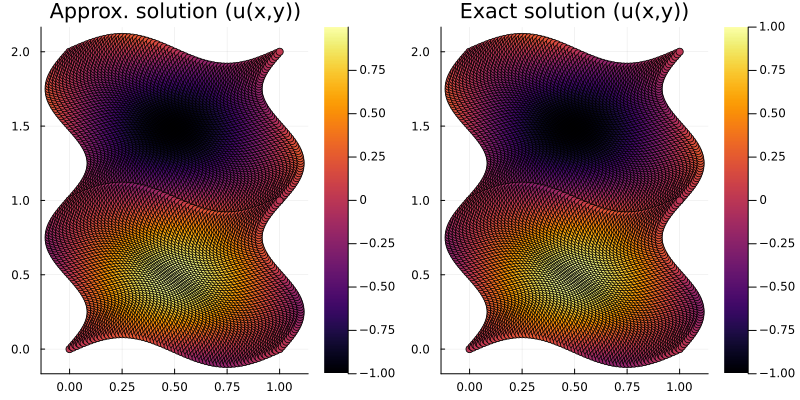
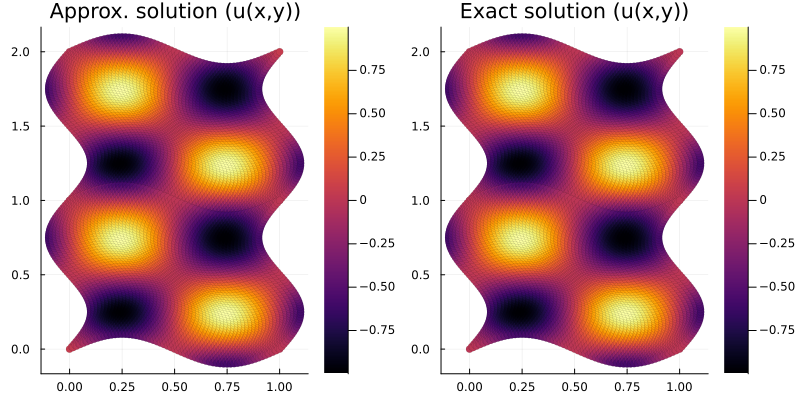
Make the images clearer and add few test till N=161

diff --git a/README.md b/README.md
@@ -189,19 +189,22 @@ julia> L²Error
 The code to solve the two-layer elasticity problem is given in `examples/LinearElasticity/2_layer_linear_elasticity.jl`. The problem contains two domains, each of which is transformed to the reference grid. At the interface between the two domains, continuity of displacements and the traction is enforced. The method is discussed in [Duru and Virta, 2014](https://doi.org/10.1016/j.jcp.2014.08.046).
 
 $$
-\sigma_1(\mathbf{u}_1) \cdot \mathbf{n} = \sigma_2(\mathbf{u}_2) \cdot \mathbf{n}, \quad \mathbf{u}_1 = \mathbf{u}_2
+\begin{align*}
+\sigma_1(\mathbf{u}_1) \cdot \mathbf{n} &= \sigma_2(\mathbf{u}_2) \cdot \mathbf{n},\\
+\mathbf{u}_1 &= \mathbf{u}_2
+\end{align*}
 $$
 
 In all the experiments, we assume the following exact solution for the numerical tests on both domains
 
 $$
 \begin{align*}
-	u(x,y,t) &= \sin(\pi x)\sin(\pi y)\sin(\pi t)\\
-	v(x,y,t) &= \sin(2\pi x)\sin(2\pi y)\sin(\pi t)\\		
+	u(x,y,t) &= \sin(2\pi x)\sin(2\pi y)\cos(2\pi t)\\
+	v(x,y,t) &= -\sin(2\pi x)\sin(2\pi y)\cos(2\pi t)\\		
 \end{align*}
 $$
 
-The material properties, i.e., the Young's modulus and the Poisson's ratio, are $E = 1.0$ units and $\nu = 0.33$, respectively. The density of the material $\rho = 1.0$ units. The right-hand side and the initial conditions are computed using the exact solution. The same material properties are considered on both layers. In addition, we apply homogeneous Neumann boundary conditions on all the boundaries other than the interface.
+The material properties, i.e., the Young's modulus and the Poisson's ratio, are $\mu = 1.0$ units and $\lambda = 2.0$, respectively. The density of the material $\rho = 1.0$ units. The right-hand side and the initial conditions are computed using the exact solution. The same material properties are considered on both layers. In addition, we apply homogeneous Neumann boundary conditions on all the boundaries other than the interface. We take $N = 21, 41, 81, 161$ grid points in the spatial axis, unless otherwise specified. We use the Crank Nicolson scheme to discretize the temporal axis, with $\Delta t = 10^{-3}$ unless otherwise specified. We solve the problem till the final time $T=0.5$.
 
 ## Examples:
 
@@ -232,19 +235,17 @@ The solution obtained from the code is
 
 ```julia
 julia> L²Error
-5-element Vector{Float64}:
- 0.0014048765373793973
- 0.0002489052338364618
- 7.220295847822627e-5
- 2.773681028865246e-5
- 1.2746113394244e-5
+4-element Vector{Float64}:
+ 0.0029292191489991137
+ 0.00015097078687655857
+ 7.816432852803662e-6
+ 2.7961746423513113e-6
 
 julia> rate
-4-element Vector{Float64}:
- 4.2682648457948105
- 4.301940698846879
- 4.287466939069201
- 4.264630264509913
+3-element Vector{Float64}:
+  4.278174814683486
+  4.271615240153228
+  1.4830558912540412
 ```
 
 We generally observe optimal rate of convergence for this problem.
@@ -282,18 +283,16 @@ The solution obtained from the code is
 ```julia
 julia> L²Error
 5-element Vector{Float64}:
- 0.0027907285183550058
- 0.0005527940423015698
- 0.00017091759284248921
- 6.854049976017636e-5
- 3.252490179608264e-5
+ 0.007558173340899469
+ 0.00045388123034475147
+ 2.5618346320238604e-5 
+ 3.0199888379049195e-6
 
 julia> rate
 4-element Vector{Float64}:
- 3.9931240221672377
- 4.080212430116334
- 4.094927744183956
- 4.0884841923321895
+ 4.057650872194422
+ 4.147065571813102
+ 3.0845622294783666
 ```
 
 Again, we observe optimal convergence rates for this problem. This shows that there seems to be no issue having the surface Jacobian on the traction term on the interface.
@@ -327,22 +326,92 @@ The following rate of convergence is observed with the current parameters in the
 
 ```julia
 julia> L²Error
+4-element Vector{Float64}:
+  0.016210862015016134
+  0.0012554598913067554
+  0.00012708168659424516
+  1.736858752050089e-5
+
+julia> rate
+3-element Vector{Float64}:
+  3.6906729643333986
+  3.304387891506614
+  2.8712038038632355
+```
+
+With $N=21,31,41,51,61$ we observe the following
+
+```julia
+julia> L²Error
 5-element Vector{Float64}:
- 0.005192096994131349
- 0.001075534324039911
- 0.0003477263472045686
- 0.0001499647187842862
- 7.856626145623064e-5
+ 0.016066707314881114
+ 0.0036017365712484144
+ 0.0012300006875771003
+ 0.0005560646265402666
+ 0.0003022495249636241
 
 julia> rate
 4-element Vector{Float64}:
- 3.8827510567289
- 3.925017090032561
- 3.7689449170540046
- 3.545700826435687
+ 3.687945330926127
+ 3.7346831260966966
+ 3.557734384058937
+ 3.343716536727846
 ```
 
-The convergence rates seem to be optimal but it appears to reduce to 3.5. Not sure why this happens, maybe due to the choice in the penalty term for the interface conditions?
+~~The convergence rates seem to be optimal but it appears to reduce to 3.5. Not sure why this happens, maybe due to the choice in the penalty term for the interface conditions?~~ This problem seems to be much well-behaved where the interface is a Gaussian that has a smooth tail: The boundary of the domain is parametrized by the following curves
+- Layer 1: 
+  - Left: $c_0(r) = [0, r+1]$
+  - Bottom: $c_1(q) = \left[q, 1 + 0.2 \left(e^{-20(q-0.5)^2}\right) \right]$ (interface)
+  - Right: $c_2(r) = [1, r+1]$
+  - Top: $c_3(q) = [q, 2]$
+- Layer 2:
+  - Left: $c_0(r) = [0, r]$
+  - Bottom: $c_1(q) = [q, 0]$
+  - Right: $c_2(r) = [1, r]$
+  - Top: $c_3(q) = \left[q, 1 + 0.2 \left(e^{-20(q-0.5)^2}\right) \right]$ (interface)
+
+Computational domain | Convergence Rates |
+--- | --- |
+![](./Images/2-layer/Eg3/domain-2.png) | ![](./Images/2-layer/Eg3/rate-2.png) |
+
+![](./Images/2-layer/Eg3/horizontal-disp-2.png) | ![](./Images/2-layer/Eg3/vertical-disp-2.png) | 
+--- | --- | 
+
+Here we take $\Delta t = 5\times 10^{-4}$.
+
+```julia
+# Δt = 5e-4
+julia> L²Error
+5-element Vector{Float64}:
+  0.006826340978433765
+  0.000425586540937818
+  2.611151878566523e-5
+  1.9481550103655963e-6
+
+julia> rate
+3-element Vector{Float64}:
+  4.003588047602191
+  4.026694246642176
+  3.7445059958163975
+```
+
+The issue also seems to be partly due to time stepping. Reducing $\Delta t$ from $10^{-3}$ to $5\times 10^{-4}$ seem to help.
+
+```julia
+# Δt = 5e-4
+julia> rate
+3-element Vector{Float64}:
+ 4.003588047602191
+ 4.026694246642176
+ 3.7445059958163975
+
+# Δt = 1e-3
+julia> rate
+3-element Vector{Float64}:
+ 4.00548755266784
+ 4.0519597741820155
+ 3.086414419085599
+```
 
 ### Example 4:
 
@@ -371,23 +440,21 @@ The solution obtained from the code is
 ![](./Images/2-layer/Eg4/horizontal-disp.png) | ![](./Images/2-layer/Eg4/vertical-disp.png) | 
 --- | --- | 
 
-The following rate of convergence is observed with the current parameters in the code.
+The following rate of convergence is observed with $\Delta t = 10^{-3}$:
 
 ```julia
 julia> L²Error
-5-element Vector{Float64}:
- 0.007682909032643207
- 0.00154046099064925
- 0.00047469531532226
- 0.00018966438103023314
- 8.97056800505284e-5
+4-element Vector{Float64}:
+ 0.012935291001307055
+ 0.0007842570244329608
+ 4.413028838750284e-5
+ 3.3462277406906936e-6
 
 julia> rate
-4-element Vector{Float64}:
- 3.9631438251784785
- 4.091891539718783
- 4.111331278966825
- 4.106601643470132
+3-element Vector{Float64}:
+ 4.043842153976925
+ 4.151485465716138
+ 3.721161633112315
 ```
 
 This time, we observe optimal convergence rates.
@@ -421,54 +488,20 @@ The following rate of convergence is observed with the current parameters in the
 
 ```julia
 julia> L²Error
-5-element Vector{Float64}:
- 0.014592823041234606
- 0.005485928773323668
- 0.0025281592366808623
- 0.0012984937719568185
- 0.0007230180349547938
+4-element Vector{Float64}:
+ 0.030348222878644658
+ 0.0060687619680976235
+ 0.0006768305078532689
+ 4.898596393252745e-5
 
 julia> rate
-4-element Vector{Float64}:
- 2.4128917795706855
- 2.692885722704873
- 2.9859097598727833
- 3.2115021316773915
+3-element Vector{Float64}:
+ 2.3221378973273095
+ 3.1645357317336233
+ 3.7883542641706605
 ```
 
-~~We observe that the convergence rates drop to $\approx 3$.~~ The convergence rates eventually reach 4. Here are updated the rates along with the $L^2-$ errors:
-
-```julia
-julia> N
-8-element Vector{Int64}:
-  41                                                                               
-  51                                                                                     
-  61                                                                                     
-  71                                                                                     
-  81 
-  91                                                                                  
- 101                                                                                     
- 111                                                                                                                                                                                                       
-julia> L²Error                                                                          
-8-element Vector{Float64}:
- 0.0025281592366808623                                                                                  
- 0.0012984937719568185                                                                                  
- 0.0007230180349547938                                                                                  
- 0.0004292941192332254 
- 0.0026860800040655016                                                                                 
- 0.00017553818765438645                                                                                   
- 0.00011899345104733748                                                                                   
- 8.321818450187672e-5                                                                                   
-                                                              
-julia> rate  
-7-element Vector{Float64}:
- 3.2115021316773915 
- 3.381703476165346 
- 3.511452986406 
- 3.611695471642677 
- 3.6900745207942363
- 3.7519871586182476 
-```
+~~We observe that the convergence rates drop to $\approx 3$.~~ The convergence rates eventually reach 4.
 
 ### Example 6:
 
@@ -495,26 +528,27 @@ The solution obtained from the code is
 ![](./Images/2-layer/Eg6/horizontal-disp.png) | ![](./Images/2-layer/Eg6/vertical-disp.png) | 
 --- | --- | 
 
-The following rate of convergence is observed with the current parameters in the code.
+The following rate of convergence is observed with the current parameters in the code. In this example I take $N = 21,31,41,51,61$.
 
 ```julia
+# Δt = 1e-3
 julia> L²Error
 5-element Vector{Float64}:
- 0.014592823041234606
- 0.005485928773323668
- 0.0025281592366808623
- 0.0012984937719568185
- 0.0007230180349547938
+ 0.04296175304105988
+ 0.01574910722885202
+ 0.007227511185722746
+ 0.0037390561406167116
+ 0.0020981987167981776
 
 julia> rate
 4-element Vector{Float64}:
- 2.4128917795706855
- 2.692885722704873
- 2.9859097598727833
- 3.2115021316773915
+ 2.4750010688314252
+ 2.707464287141587
+ 2.953531607478651
+ 3.1688737095831887
 ```
 
-The convergence rates are similar to Example 5. It drops to $\approx 3$. This behaviour needs to be investigated further. 
+This problem seems to be difficult to solve due a combination of the distortion and time stepping. Further investigation is required to see if this can be improved.
 
 # References
 
